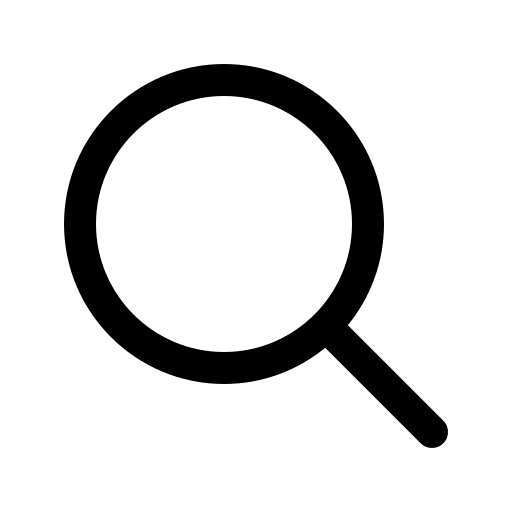
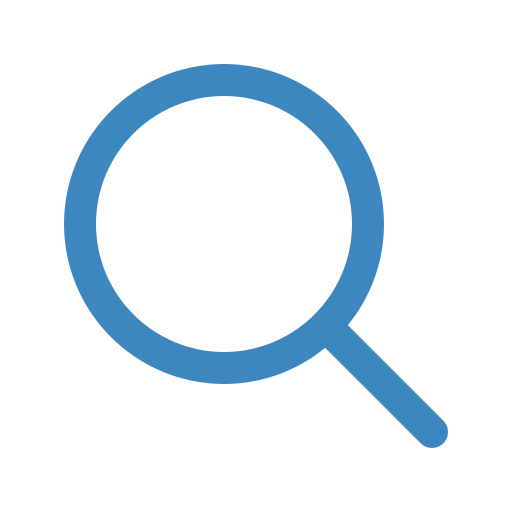
Barra de pesquisar pronta

Changed region(s): [[0.125, 0.125, 0.875, 0.875]]

diff --git a/public/css/styles.css b/public/css/styles.css
@@ -125,14 +125,55 @@ body {
     display: flex;
 }
 
-#box-pesquisa{
+#barra-lateral{
     border: 1px solid red;
     margin-left: 1rem;
-    padding-top: 10px;
+    padding: 10px 0px;
     width: 13rem;
 }
 
-#box-pesquisa h3{
+#barra-lateral h3{
     font-size: 18px;
-    font-weight: 600;
+    font-weight: 700;
+    margin-bottom: 5px;
+}
+
+ .search-box{
+    display: flex;
+    align-items: center;
+    position: relative;
+    border: 2px solid rgba(196, 231, 235, 1);
+    border-radius: 15px;
+    padding: 5px;
+    background-color: rgba(83, 186, 88, 0.09);
+}
+
+/* .search-box::after{
+    content: '';
+    background-image: var(--gradient) 1;
+    border-radius: 5px;
+
+} */
+
+.search-box input{
+    padding: 8px;
+    border: none;
+    background: transparent;
+    width: 100%;
+    outline: 100%;
+}
+
+.search-txt{
+    border: none;
+    background: none;
+    outline: none;
+    float: left;
+    padding: 0;
+    color: rgba(177, 179, 182, 0);
+    font-size: 2px;
+}
+
+.search-box img{
+ margin-top: 2px;
+ margin-right: 4px;
 }

diff --git a/app/views/site/index.html b/app/views/site/index.html
@@ -95,10 +95,10 @@
             </div>
         </main>
 
-        <div id="box-pesquisa">
+        <div id="barra-lateral">
             <h3>Pesquisar</h3>
 
-                <div class="search-box">
+            <div class="search-box">
                 <input type="text" class="search-text" placeholder="Pesquisar">
                 <a href="#">
                 <img src="/public/assets/lupa.png" alt="Lupa" height="25" width="25">
